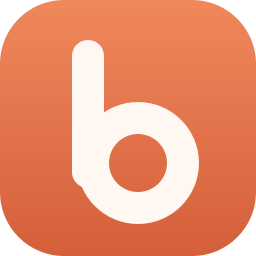
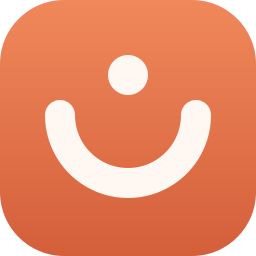
elnunu (النونو): the brand, renamed from Bambino
- Name: elnunu / النونو, with the weight on the name: "el" and "ال"
  light and muted, "nunu" and "نونو" bold. Line unchanged.
- Mark: the Arabic noon drawn as a cradle with the little one above it,
  on the same clay squircle; every icon regenerated.
- Type: Baloo Bhaijaan 2 (self-hosted Arabic subset) joins Fredoka for
  the Arabic wordmark and Arabic titles.
- Applied to metadata, manifest, service worker, sign-in (both
  wordmarks), Home hero, Me page footer, README and docs/BRAND.md.

Claude-Session: https://claude.ai/code/session_019dtDGLG8XZF9TVN7CaRapP

Changed region(s): [[0.1562, 0.1562, 0.8438, 0.875], [0.2812, 0.6875, 0.3125, 0.7188]]

diff --git a/family/components/Brand.tsx b/family/components/Brand.tsx
@@ -1,32 +1,52 @@
 /**
- * Bambino: the mark (a rounded b with a moon in its bowl, on warm clay) and
- * the wordmark. The mark is inline SVG so it inherits size and never loads.
+ * elnunu (النونو): the mark is the Arabic letter noon drawn as a cradle with
+ * the little one above it, on warm clay. The wordmark puts the weight on
+ * "nunu": "el" and "ال" are light and muted, the name itself is bold.
+ * The mark is inline SVG so it inherits size and never loads.
  */
-export function Mark({ size = 32, className = "", title = "Bambino" }: { size?: number; className?: string; title?: string }) {
+export function Mark({ size = 32, className = "", title = "elnunu" }: { size?: number; className?: string; title?: string }) {
   return (
     <svg viewBox="0 0 512 512" width={size} height={size} className={className} role="img" aria-label={title}>
       <defs>
-        <linearGradient id="bambino-clay" x1="0" y1="0" x2="0" y2="1">
+        <linearGradient id="elnunu-clay" x1="0" y1="0" x2="0" y2="1">
           <stop offset="0" stopColor="#F0885B" />
           <stop offset="1" stopColor="#D45F3A" />
         </linearGradient>
       </defs>
-      <rect width="512" height="512" rx="128" fill="url(#bambino-clay)" />
-      <path d="M176 112 v232" fill="none" stroke="#FFF7F1" strokeWidth="64" strokeLinecap="round" />
-      <circle cx="276" cy="326" r="90" fill="none" stroke="#FFF7F1" strokeWidth="64" />
-      <path d="M296 282 a44 44 0 1 0 0 88 a36 36 0 1 1 0 -88 z" fill="#FFF7F1" />
+      <rect width="512" height="512" rx="128" fill="url(#elnunu-clay)" />
+      <path d="M120 230 a136 136 0 0 0 272 0" fill="none" stroke="#FFF7F1" strokeWidth="60" strokeLinecap="round" />
+      <circle cx="256" cy="150" r="40" fill="#FFF7F1" />
     </svg>
   );
 }
 
-/** Mark plus the name. `size` is the mark; the name scales with it. */
-export function Wordmark({ size = 28, className = "" }: { size?: number; className?: string }) {
+/** The Latin name: light "el", bold "nunu". */
+export function Name({ className = "", style }: { className?: string; style?: React.CSSProperties }) {
+  return (
+    <span className={`wordmark ${className}`} style={style} lang="en">
+      <span className="wordmark-el">el</span>
+      <span className="wordmark-nunu">nunu</span>
+    </span>
+  );
+}
+
+/** The Arabic name: light "ال", bold "نونو". One run, so the letters stay joined. */
+export function NameArabic({ className = "", style }: { className?: string; style?: React.CSSProperties }) {
+  return (
+    <span className={`wordmark-ar ${className}`} style={style} lang="ar" dir="rtl">
+      <span className="wordmark-el">ال</span>
+      <span className="wordmark-nunu">نونو</span>
+    </span>
+  );
+}
+
+/** Mark plus the Latin name. `size` is the mark; the name scales with it. */
+export function Wordmark({ size = 28, className = "", arabic = false }: { size?: number; className?: string; arabic?: boolean }) {
   return (
     <span className={`inline-flex items-center gap-2 ${className}`}>
       <Mark size={size} />
-      <span className="wordmark" style={{ fontSize: size * 0.85 }}>
-        bambino
-      </span>
+      <Name style={{ fontSize: size * 0.9 }} />
+      {arabic && <NameArabic style={{ fontSize: size * 0.8 }} className="muted" />}
     </span>
   );
 }

diff --git a/family/app/globals.css b/family/app/globals.css
@@ -5,7 +5,7 @@
    Ask screen's own very dark mode. Everything else reads these variables.
    ========================================================================== */
 :root {
-  /* Bambino: warm cream ground, clay accent, plum for night. Every colour is a token. */
+  /* elnunu: warm cream ground, clay accent, plum for night. Every colour is a token. */
   --bg: #fbf6f0;
   --fg: #2a211c;
   --muted: #7b6e66;
@@ -29,6 +29,7 @@
   --radius-sm: 12px;
   --tabbar-h: 64px;
   --font-display: "Fredoka", ui-rounded, "SF Pro Rounded", "Nunito", -apple-system, system-ui, sans-serif;
+  --font-display-ar: "Baloo Bhaijaan 2", "SF Arabic Rounded", "SF Arabic", "Noto Naskh Arabic", "Segoe UI", system-ui, sans-serif;
   color-scheme: light;
 }
 @media (prefers-color-scheme: dark) {
@@ -81,6 +82,14 @@ html[data-theme="night"] {
   font-display: swap;
   unicode-range: U+0000-00FF, U+0131, U+0152-0153, U+02BB-02BC, U+02C6, U+02DA, U+02DC, U+0304, U+0308, U+0329, U+2000-206F, U+20AC, U+2122, U+2191, U+2193, U+2212, U+2215, U+FEFF, U+FFFD;
 }
+@font-face {
+  font-family: "Baloo Bhaijaan 2";
+  src: url("/fonts/baloo-bhaijaan2-arabic.woff2") format("woff2");
+  font-weight: 400 800;
+  font-style: normal;
+  font-display: swap;
+  unicode-range: U+0600-06FF, U+0750-077F, U+0870-0891, U+0897-08E1, U+08E3-08FF, U+200C-200E, U+2010-2011, U+204F, U+2E41, U+FB50-FDFF, U+FE70-FE74, U+FE76-FEFC;
+}
 html {
   font-size: 17px; /* iOS body size; large mode for the grandmothers */
   -webkit-text-size-adjust: 100%;
@@ -103,7 +112,11 @@ body {
 h1, h2, h3 { letter-spacing: -0.02em; }
 /* Display face for titles only; body stays the system font for reading at 3 am. */
 .page-title, .wordmark { font-family: var(--font-display); letter-spacing: -0.01em; }
-.wordmark { font-weight: 600; line-height: 1; }
+.wordmark { font-weight: 700; line-height: 1; }
+.wordmark-ar { font-family: var(--font-display-ar); font-weight: 700; line-height: 1.2; letter-spacing: 0; }
+/* The weight sits on the name: "el" / "ال" step back. */
+.wordmark .wordmark-el, .wordmark-ar .wordmark-el { font-weight: 400; color: var(--muted); }
+.wordmark .wordmark-nunu, .wordmark-ar .wordmark-nunu { font-weight: 700; color: var(--fg); }
 .pill-night { background: var(--night-soft); color: var(--night); }
 .notice-night { background: var(--night-soft); color: var(--night); }
 .page-header { padding: 8px 0 4px; }

diff --git a/family/app/login/page.tsx b/family/app/login/page.tsx
@@ -4,7 +4,7 @@ import { createClient } from "@/lib/supabase/server";
 import { LoginForm } from "./LoginForm";
 import { NotConfigured } from "@/components/NotConfigured";
 import { HashSession } from "@/components/HashSession";
-import { Mark } from "@/components/Brand";
+import { Mark, Name, NameArabic } from "@/components/Brand";
 
 export const dynamic = "force-dynamic";
 
@@ -21,8 +21,11 @@ export default async function LoginPage({ searchParams }: { searchParams: Promis
       <div className="mb-8 flex flex-col items-start gap-3">
         <Mark size={64} />
         <div>
-          <h1 className="wordmark text-4xl">bambino</h1>
-          <p className="muted mt-1">The little one&apos;s day, in everyone&apos;s hands.</p>
+          <h1 className="flex flex-wrap items-baseline gap-x-4 gap-y-1">
+            <Name className="text-5xl" />
+            <NameArabic className="text-4xl" />
+          </h1>
+          <p className="muted mt-2">The little one&apos;s day, in everyone&apos;s hands.</p>
         </div>
       </div>
       <div className="card">

diff --git a/family/public/sw.js b/family/public/sw.js
@@ -1,6 +1,6 @@
 /* Minimal app-shell cache so the installed app opens offline and queued
    entries can be made. Data always comes from the network. */
-const CACHE = "bambino-shell-v4";
+const CACHE = "elnunu-shell-v5";
 const SHELL = ["/", "/lana", "/calendar", "/shopping", "/send", "/manifest.webmanifest", "/icons/icon-192.png", "/icons/icon-512.png"];
 
 self.addEventListener("install", (event) => {
@@ -45,9 +45,9 @@ self.addEventListener("push", (event) => {
   try {
     data = event.data ? event.data.json() : {};
   } catch {
-    data = { title: "Bambino", body: event.data ? event.data.text() : "" };
+    data = { title: "elnunu", body: event.data ? event.data.text() : "" };
   }
-  const title = data.title || "Bambino";
+  const title = data.title || "elnunu";
   event.waitUntil(
     self.registration.showNotification(title, {
       body: data.body || "",

diff --git a/family/app/layout.tsx b/family/app/layout.tsx
@@ -3,11 +3,11 @@ import "./globals.css";
 import { RegisterSW } from "@/components/RegisterSW";
 
 export const metadata: Metadata = {
-  title: "Bambino",
-  description: "Bambino: the little one's day, in everyone's hands. Lana's log, the helper, who is home, and the house.",
+  title: "elnunu · النونو",
+  description: "elnunu (النونو): the little one's day, in everyone's hands. Lana's log, the helper, who is home, and the house.",
   manifest: "/manifest.webmanifest",
-  applicationName: "Bambino",
-  appleWebApp: { capable: true, statusBarStyle: "default", title: "Bambino" },
+  applicationName: "elnunu",
+  appleWebApp: { capable: true, statusBarStyle: "default", title: "elnunu" },
   icons: {
     icon: [
       { url: "/brand/mark.svg", type: "image/svg+xml" },

diff --git a/family/components/LanaHero.tsx b/family/components/LanaHero.tsx
@@ -16,7 +16,7 @@ export function LanaHero({ summary, me, today, dateLine }: { summary: HomeSummar
         <Avatar name={s.name} path={photo} size={64} />
         <div className="min-w-0 flex-1">
           <p className="muted flex items-center gap-1.5 text-sm">
-            <Mark size={16} title="Bambino" /> {dateLine}
+            <Mark size={16} title="elnunu" /> {dateLine}
           </p>
           <h1 className="page-title">{s.name}</h1>
           {age && <p className="muted">{age}</p>}

diff --git a/family/app/manifest.ts b/family/app/manifest.ts
@@ -2,8 +2,8 @@ import type { MetadataRoute } from "next";
 
 export default function manifest(): MetadataRoute.Manifest {
   return {
-    name: "Bambino",
-    short_name: "Bambino",
+    name: "elnunu · النونو",
+    short_name: "elnunu · النونو",
     description: "The little one's day, in everyone's hands.",
     start_url: "/",
     display: "standalone",

diff --git a/family/app/(app)/me/page.tsx b/family/app/(app)/me/page.tsx
@@ -72,7 +72,7 @@ export default async function MePage() {
         <SignOutButton />
       </div>
       <p className="muted flex items-center justify-between pt-2 text-xs">
-        <Wordmark size={18} />
+        <Wordmark size={18} arabic />
         <span>Private. Yours.</span>
       </p>
     </div>

diff --git a/family/docs/BRAND.md b/family/docs/BRAND.md
@@ -1,29 +1,33 @@
-# Bambino: the brand
+# elnunu (النونو): the brand
 
-Bambino is the family's app for the little one's day. It is private, used one-handed,
-often at night, by parents, grandmothers and the helper. The brand has one job: feel like a
-calm, capable pair of hands, never like a dashboard and never like a toy.
+elnunu is the family's app for the little one's day. "Nunu" is what the family calls a
+baby; "el" is "the". It is private, used one-handed, often at night, by parents,
+grandmothers and the helper in three languages. The brand has one job: feel like a calm,
+capable pair of hands, never like a dashboard and never like a toy.
 
 ## Name
 
-**Bambino.** Always one word, lowercase in the wordmark (`bambino`), capitalised in prose.
-Never "Bambino App", never an exclamation mark after it. In Arabic and Russian copy the
-name stays in Latin letters.
+**elnunu** in Latin letters, **النونو** in Arabic. Both lowercase in the wordmark, both
+with the weight on the name: *el* and *ال* are light and muted, *nunu* and *نونو* are
+bold. In prose: "elnunu" (never "Elnunu App", never an exclamation mark after it). The
+two scripts sit side by side where there is room (sign-in, the Me page); elsewhere the
+Latin name alone.
 
 **Line:** *The little one's day, in everyone's hands.* Used on the sign-in screen and the
 app store style description. Not repeated inside the app.
 
 ## Mark
 
-A rounded lowercase **b** with a small moon in its bowl, on a warm clay tile. The b is the
-name; the moon is the night half of the care that nobody sees. The tile is a squircle
-(radius 25%) so every platform's icon mask leaves it whole.
+The Arabic letter **noon (ن)** drawn as a cradle with the little one above it, on a warm
+clay tile. It reads as the letter to anyone who reads Arabic, and as a cradle, a smile or a
+crescent with a dot to everyone else. The tile is a squircle (radius 25%) so every
+platform's icon mask leaves it whole.
 
 - Files: `public/brand/mark.svg` (colour), `public/brand/mark-mono.svg` (single colour,
   uses `currentColor`), PNGs in `public/brand/` and `public/icons/`.
-- In the app, use the `Mark` and `Wordmark` components from `components/Brand.tsx`.
-- Minimum size 16 px. Clear space around it equal to the moon's diameter.
-- Do not recolour the tile, add a face, or put the mark on a busy photo.
+- In the app, use `Mark`, `Name`, `NameArabic` and `Wordmark` from `components/Brand.tsx`.
+- Minimum size 16 px. Clear space around it equal to the dot's diameter.
+- Do not recolour the tile, add eyes to the dot, or put the mark on a busy photo.
 
 ## Colour
 
@@ -46,10 +50,12 @@ screen's night mode goes darker still for 3 am.
 
 ## Type
 
-- **Display:** Fredoka (self-hosted, `public/fonts/`), weights 300 to 700, for page titles
-  and the wordmark only. Rounded, friendly, still legible at a glance.
-- **Body:** the phone's system font (SF Pro, Roboto). It is what the grandmothers can read
-  at 19 px with large text on, and it costs nothing to load.
+- **Display, Latin:** Fredoka (self-hosted, `public/fonts/`), weights 300 to 700, for page
+  titles and the wordmark only.
+- **Display, Arabic:** Baloo Bhaijaan 2 (self-hosted, Arabic subset), the rounded Arabic
+  companion to Fredoka, for the Arabic wordmark and Arabic titles.
+- **Body:** the phone's system font (SF Pro, SF Arabic, Roboto). It is what the grandmothers
+  can read at 19 px with large text on, and it costs nothing to load.
 - Titles sit at 1.45 rem (2 rem on top-level screens). Labels in small caps spacing. Numbers
   that line up use tabular figures.
 
@@ -57,10 +63,12 @@ screen's night mode goes darker still for 3 am.
 
 Plain, warm, short. Second person. Say what happened and what to do next; never diagnose.
 "Next nap around 11:40." "Nothing fed since 10:20. Missed one?" "Woke up, saved."
-No exclamation marks, no baby-talk, no emoji in sentences. The helper speaks the same way.
+No exclamation marks, no baby-talk, no emoji in sentences. The helper speaks the same way,
+in English, Arabic or Russian.
 
 ## Where it shows
 
-Sign-in screen (mark, wordmark, line). Home: the mark beside the date, small; the screen
-belongs to the child. Me page: a wordmark footer. Installed app: icon, name, splash colours,
-push notification title. Everywhere else the brand is the colour and the type, not a logo.
+Sign-in screen (mark, both wordmarks, line). Home: the mark beside the date, small; the
+screen belongs to the child. Me page: a wordmark footer in both scripts. Installed app:
+icon, name, splash colours, push notification title. Everywhere else the brand is the
+colour and the type, not a logo.

diff --git a/family/README.md b/family/README.md
@@ -1,4 +1,4 @@
-# Bambino — Steps 1 to 5
+# elnunu (النونو) — Steps 1 to 5
 
 Private family-operations app for one household. This folder is the whole app:
 a Next.js PWA on Vercel talking to the household's own Supabase project.
@@ -202,10 +202,10 @@ The product brief is `../BRIEF.md`; the build plan is `../PLAN.md`.
 
 ## 0. Brand
 
-The app is **Bambino**: the little one's day, in everyone's hands. The mark (a rounded b
-with a moon in its bowl, on clay), the colour tokens, the display face and the voice are
-described in `docs/BRAND.md`; the components are in `components/Brand.tsx`, the files in
-`public/brand/` and `public/icons/`.
+The app is **elnunu** (النونو, "the little one"): the little one's day, in everyone's
+hands. The mark (the Arabic noon as a cradle with the little one above it, on clay), the
+colour tokens, the display faces and the voice are described in `docs/BRAND.md`; the
+components are in `components/Brand.tsx`, the files in `public/brand/` and `public/icons/`.
 
 ## 1. Database (Supabase)
 
